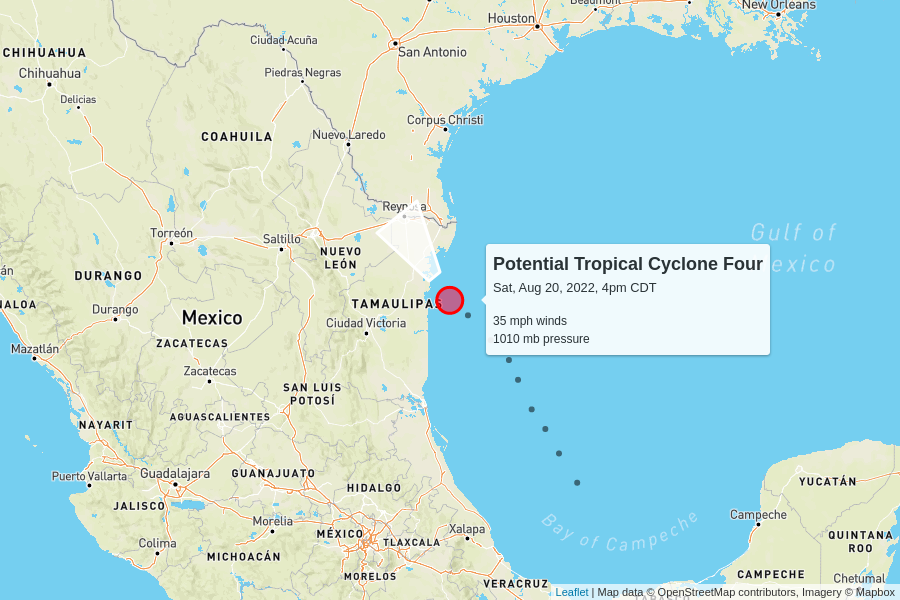
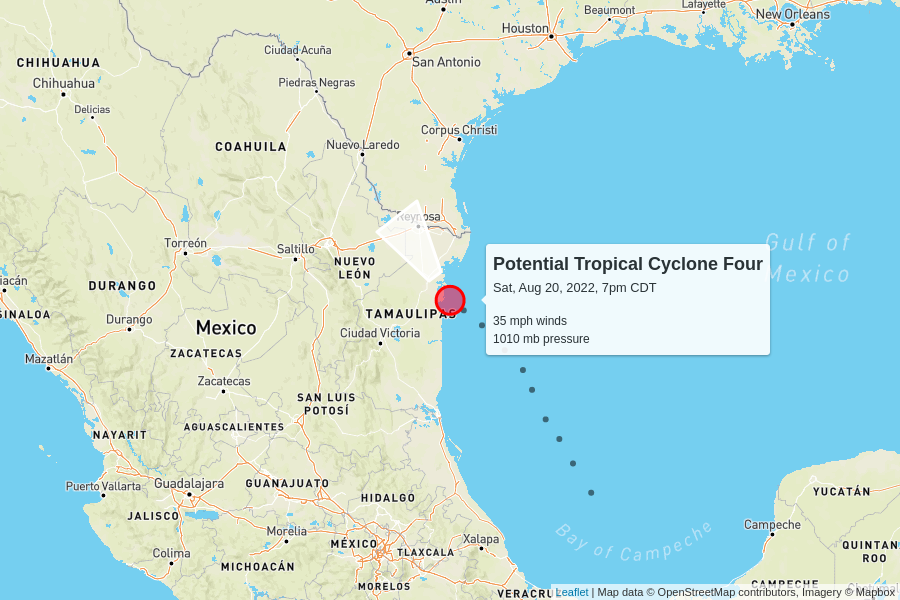
automatic update

diff --git a/docs/index.html b/docs/index.html
@@ -100,7 +100,7 @@
         <td colspan="6" class="storm category-0" >
           <h2>
             Potential Tropical Cyclone Four
-            <p class="updated">last updated <span data-time>2022-08-20T21:00:00.000Z</span></p>
+            <p class="updated">last updated <span data-time>2022-08-21T00:00:00.000Z</span></p>
           </h2>
         </td>
       </tr>
